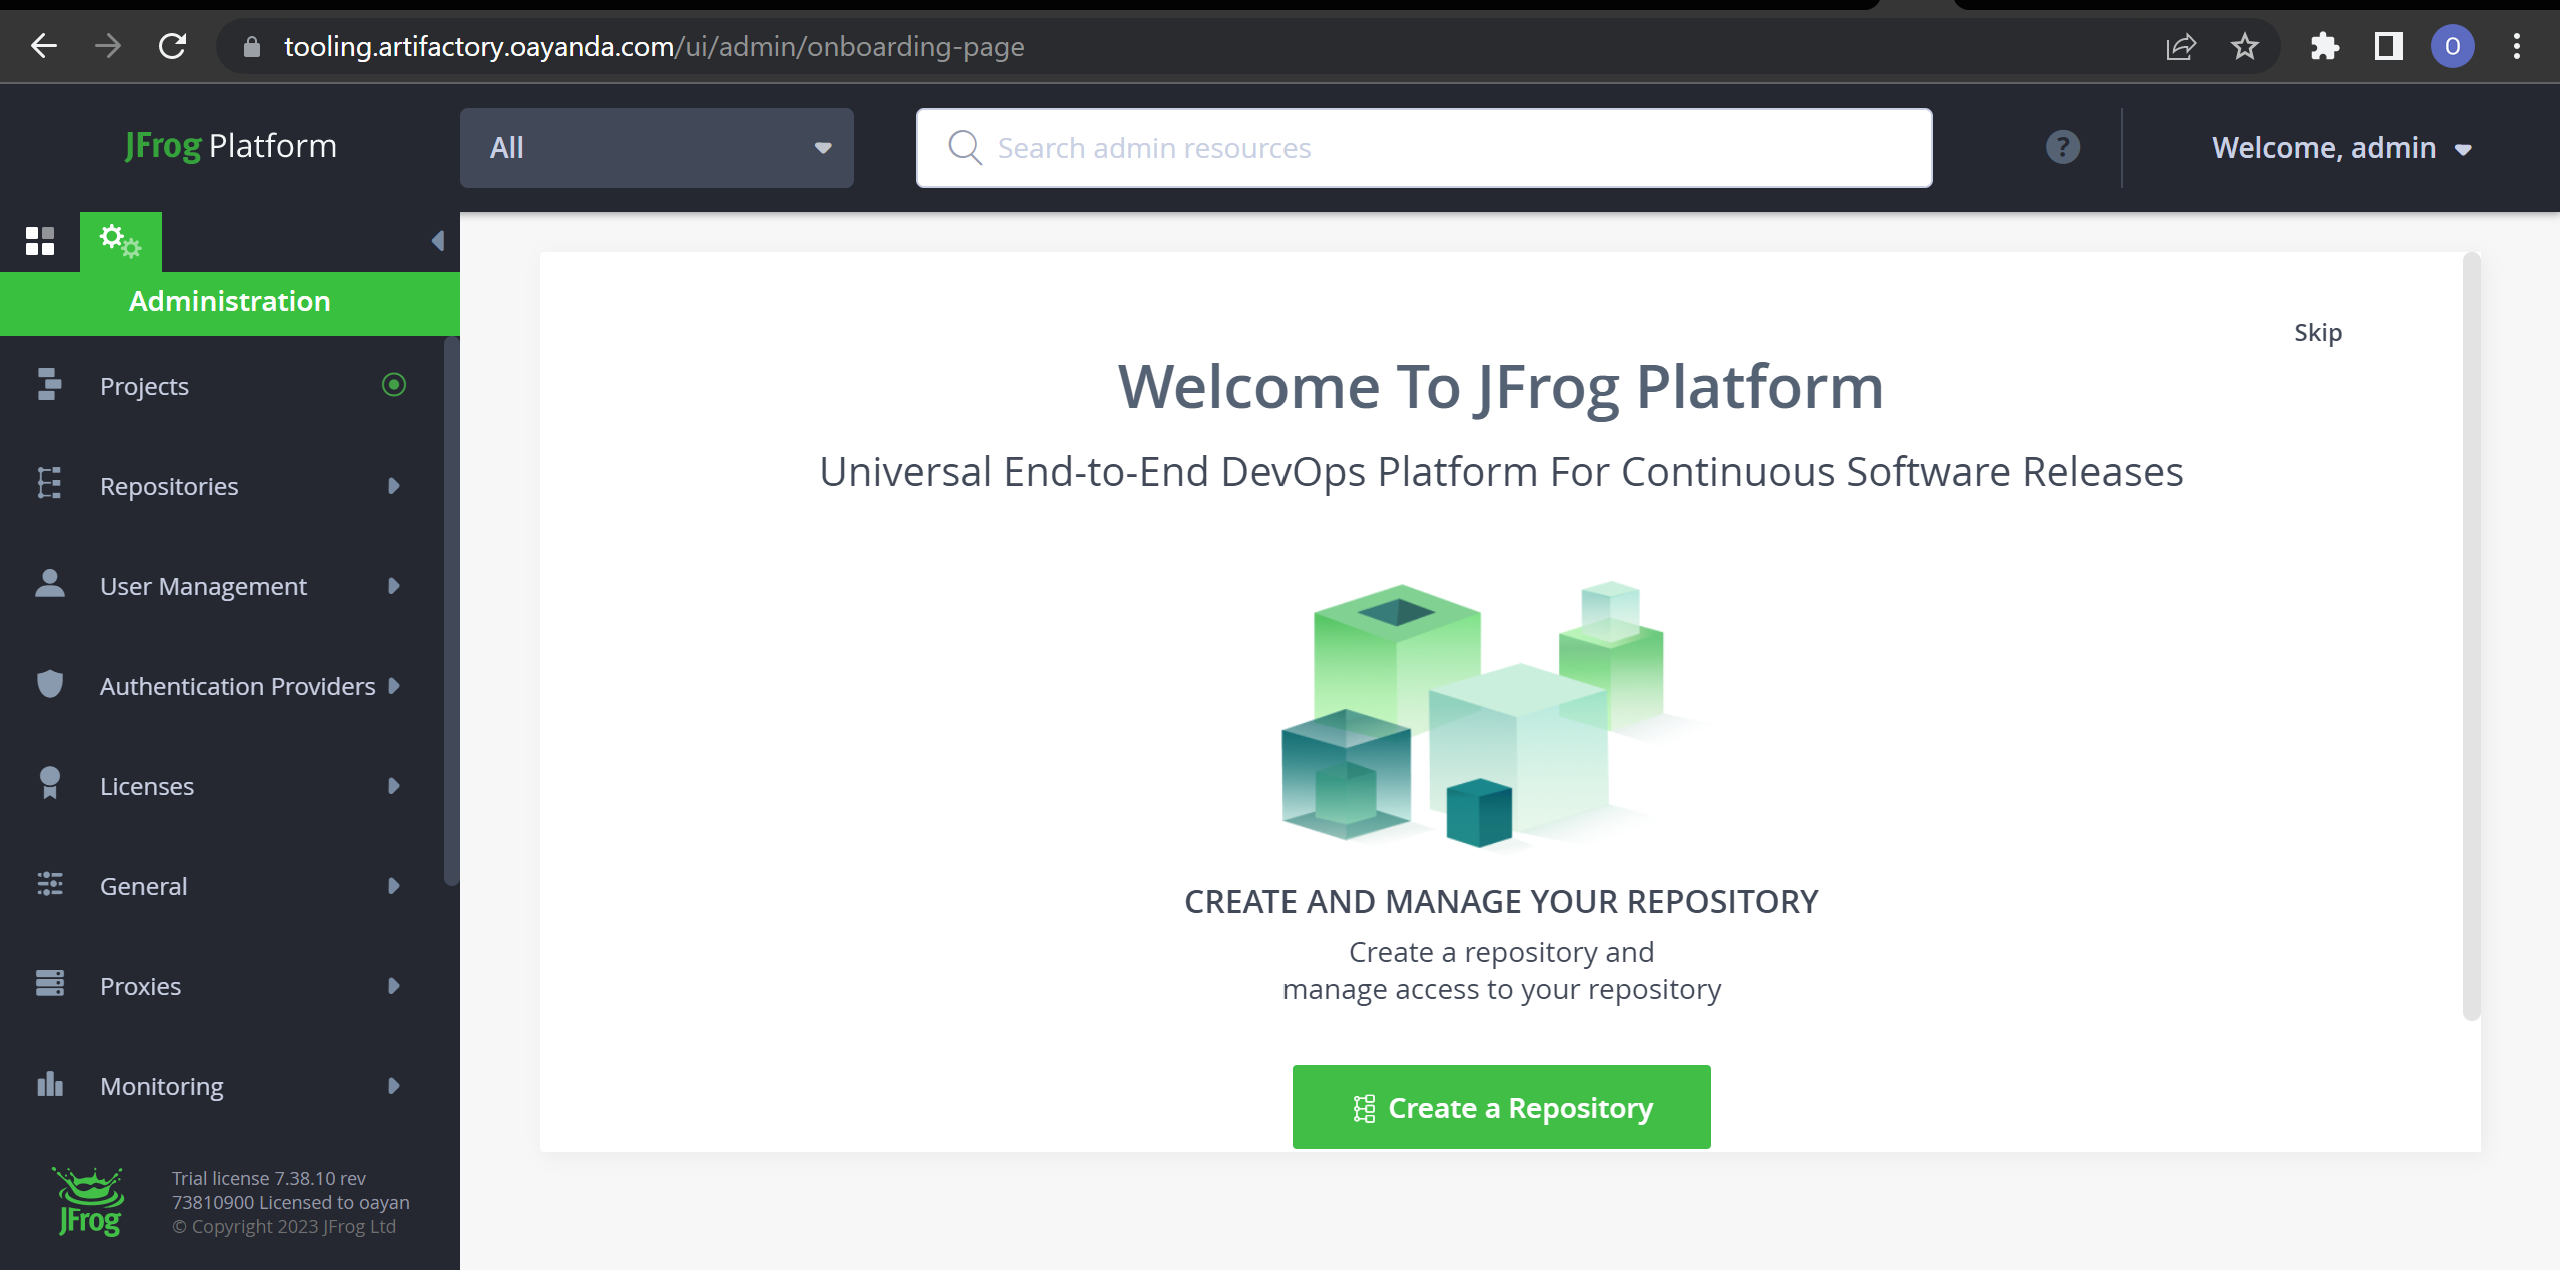
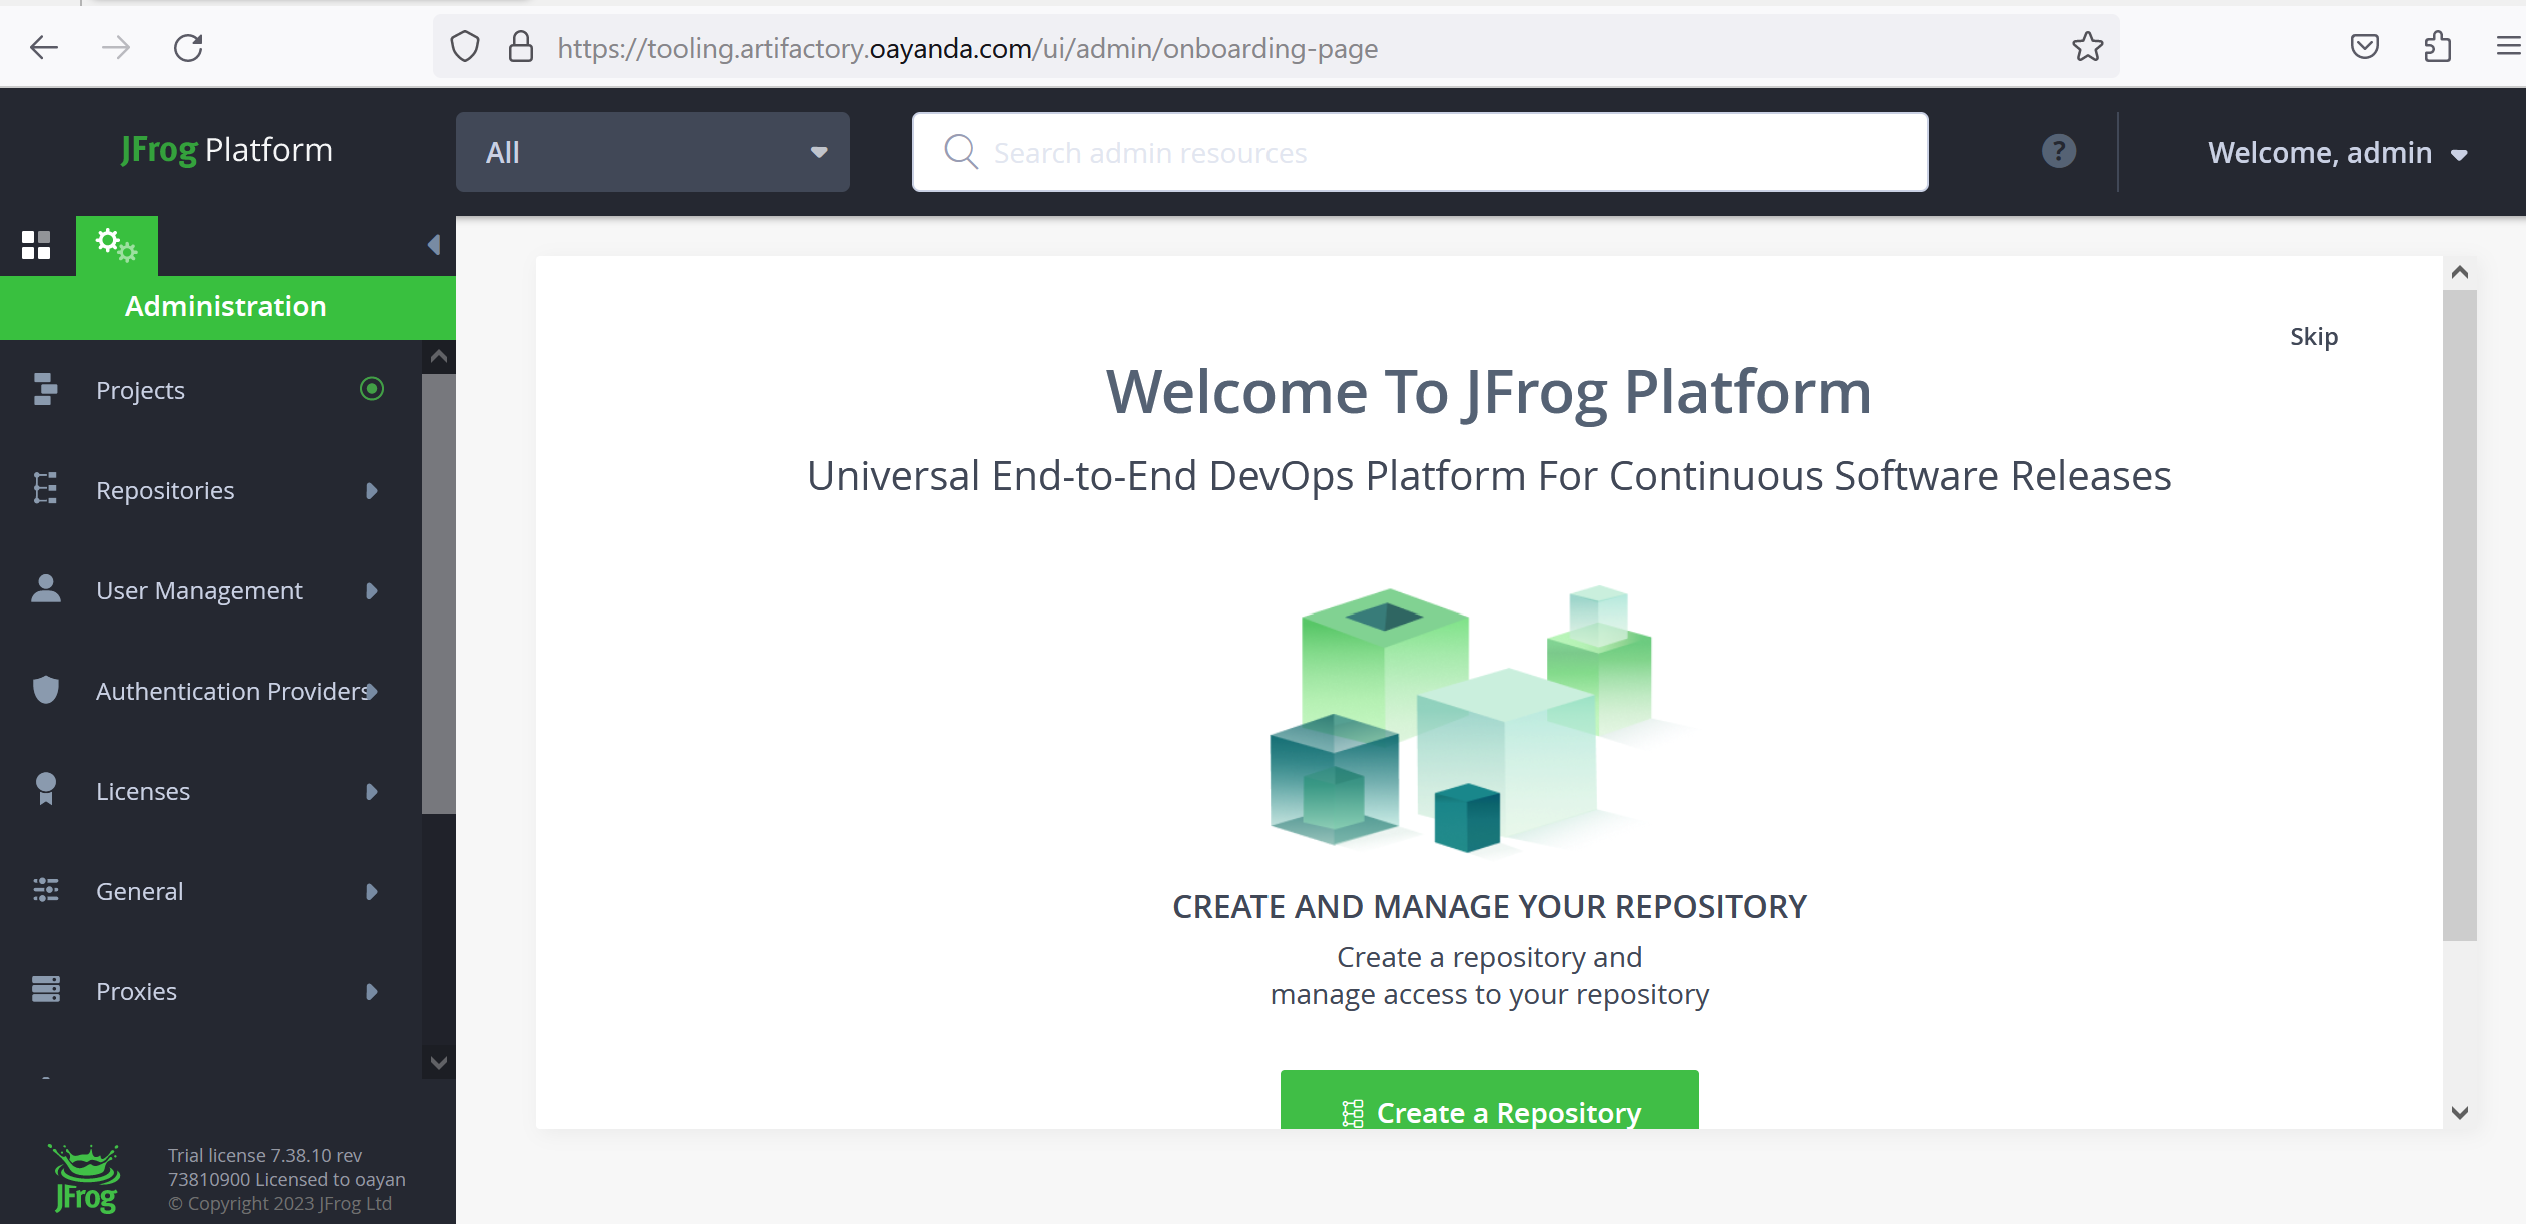
deployed tls

diff --git a/README.md b/README.md
@@ -195,14 +195,16 @@ spec:
       dns01:
         route53:
           region: "us-east-1"
-          role: "arn:aws:iam::737237029972:role/dns-manager"
+          role: "arn:aws:iam::xxxxxxxx:role/dns-manager"
           hostedZoneID: <"Enter-Your-HostedZone-Here">
           accessKeyID: <Enter-your-access-key-here>
           secretAccessKeySecretRef:
             name: aws-secret
             key: secret-access-key
 ```
-Make sure to update the manifest file and apply.
+
+Make sure to update the role, region, aws credentials in manifest file and apply.
+> Note you would also need to create and deploy a secret yaml file for hide your credentials
 
 ```bash
 k apply -f cluster-issuer.yaml
@@ -236,4 +238,12 @@ spec:
     - "tooling.artifactory.oayanda.com"
     secretName: "tooling.artifactory.oayanda.com"
 ```
+Check if the certificate request has been granted
+
+```bash
+k get certificate -n tools
+```
+![pods](/images/18.png)
+
+Let's verify this in the browser
 ![pods](/images/20.png)
